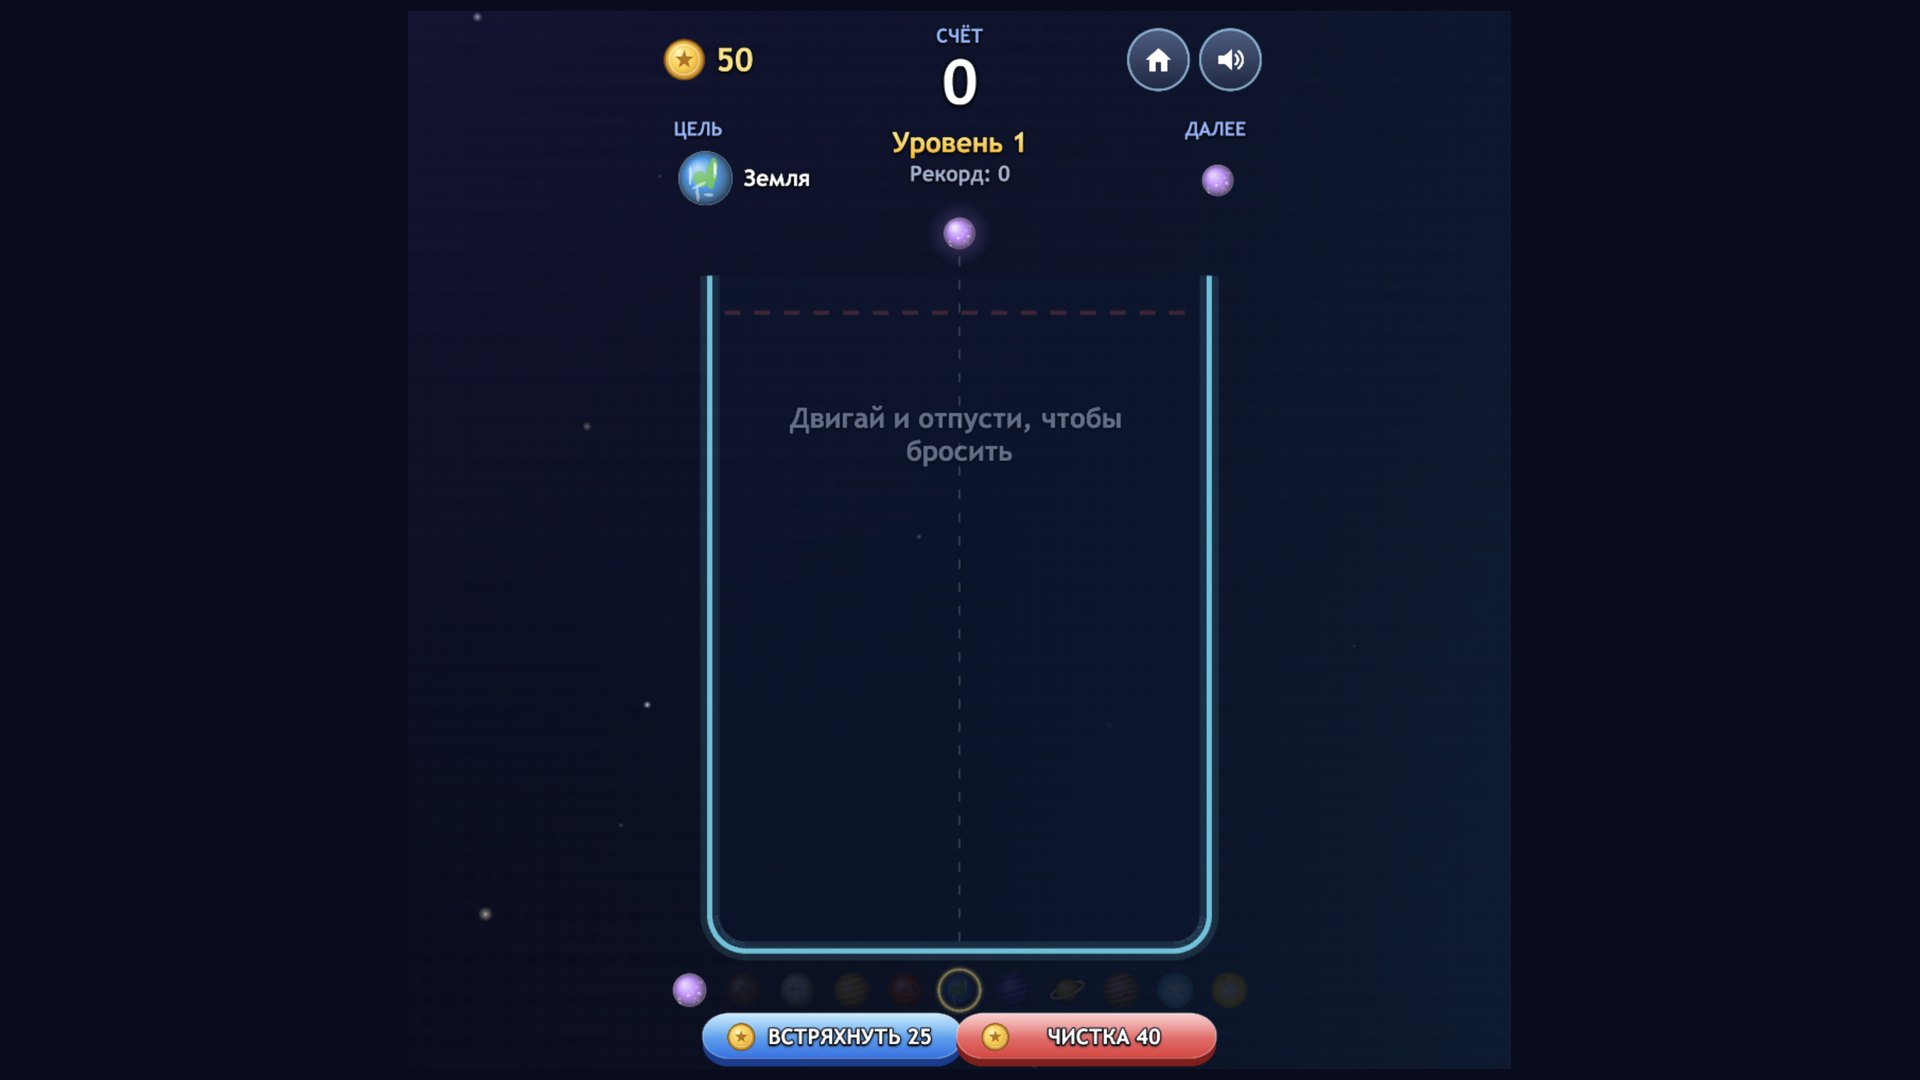
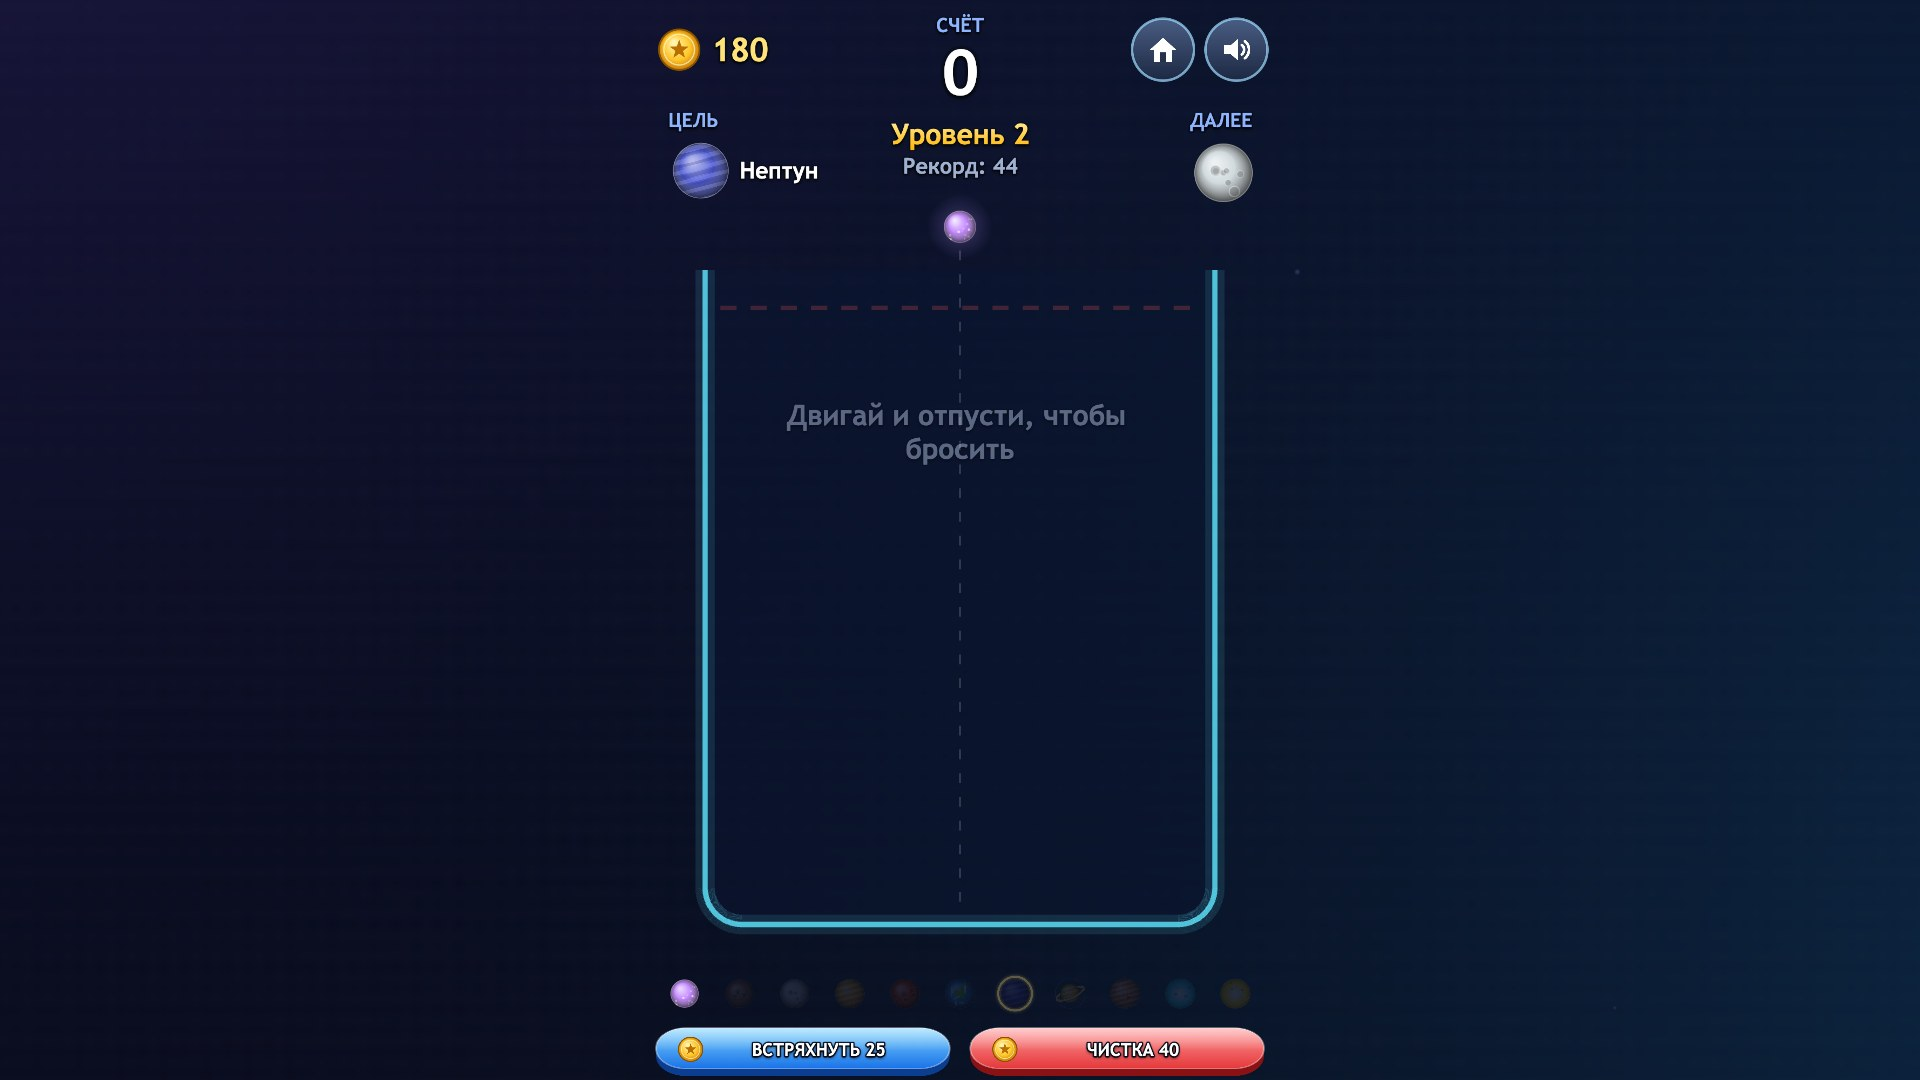
VK Play: развести HUD и обновить 16:9 скрины.
Кнопки встряхивания и чистки больше не наезжают друг на друга, банка не пересекается с цепочкой эволюции.

diff --git a/src/scenes/PlayScene.js b/src/scenes/PlayScene.js
@@ -1,10 +1,10 @@
-import { CONFIG, DESIGN, TIERS, t, tierName, targetTierForLevel } from '../config.js';
-import { YandexSDK } from '../yandexSDK.js';
-import { Sfx } from '../audio.js';
+import { CONFIG, DESIGN, TIERS, t, tierName, targetTierForLevel } from '../config.js?v=20261122e';
+import { YandexSDK } from '../yandexSDK.js?v=20261122e';
+import { Sfx } from '../audio.js?v=20261122e';
 import {
   fitCamera, addBackground, makeText, gradientText, makeButton, makeRoundButton,
   burst, shock, floatText, toast
-} from '../ui.js';
+} from '../ui.js?v=20261122e';
 
 const J = CONFIG.jar;
 const B = CONFIG.balance;
@@ -139,23 +139,25 @@ export class PlayScene extends Phaser.Scene {
     makeText(this, W - 28, 112, t('next'), 18, '#8fb4ff', { ox: 1 }).setDepth(10);
     this.nextImg = this.add.image(W - 56, 160, 'p0').setDepth(10);
 
-    // цепочка эволюции
+    // цепочка между дном банки и кнопками — без наезда на пол и на «Встряхнуть»/«Чистка»
     this.chain = [];
     for (let i = 0; i < TIERS.length; i++) {
-      const img = this.add.image(45 + i * 51, 925, 'p' + i).setDisplaySize(34, 34).setDepth(10);
+      const img = this.add.image(45 + i * 51, 920, 'p' + i).setDisplaySize(28, 28).setDepth(10);
       img.setTint(0x3a3f55).setAlpha(0.55);
       this.chain.push(img);
     }
     this.markReached(0, true);
-    const tr = this.add.image(45 + this.target * 51, 925, 'ring').setTint(0xffd54f)
-      .setBlendMode(Phaser.BlendModes.ADD).setDisplaySize(50, 50).setDepth(11);
+    const tr = this.add.image(45 + this.target * 51, 920, 'ring').setTint(0xffd54f)
+      .setBlendMode(Phaser.BlendModes.ADD).setDisplaySize(40, 40).setDepth(11);
     this.tweens.add({ targets: tr, alpha: 0.25, duration: 650, yoyo: true, repeat: -1 });
 
-    // бустер
-    this.shakeBtn = makeButton(this, 180, 972, `${t('shake')} ${B.shakeCost}`, 'blue', () => this.useShake(),
-      { w: 250, h: 54, size: 20, icon: 'coin' }).setDepth(10);
-    this.purgeBtn = makeButton(this, 420, 972, `${t('purge')} ${B.purgeCost}`, 'red', () => this.usePurge(),
-      { w: 250, h: 54, size: 20, icon: 'coin' }).setDepth(10);
+    // две колонки с зазором: иначе длинные RU/TR подписи с иконкой монеты наползают друг на друга
+    const side = 16, gap = 14;
+    const bw = (W - side * 2 - gap) / 2;
+    this.shakeBtn = makeButton(this, side + bw / 2, 974, `${t('shake')} ${B.shakeCost}`, 'blue', () => this.useShake(),
+      { w: bw, h: 48, size: 16, icon: 'coin' }).setDepth(10);
+    this.purgeBtn = makeButton(this, W - side - bw / 2, 974, `${t('purge')} ${B.purgeCost}`, 'red', () => this.usePurge(),
+      { w: bw, h: 48, size: 16, icon: 'coin' }).setDepth(10);
   }
 
   // ------------------------------------------------------------------ вспомогательное
@@ -463,12 +465,12 @@ export class PlayScene extends Phaser.Scene {
   showRevive() {
     const W = DESIGN.W;
     const c = this.buildPanel(520, 560, 500);
-    const title = makeText(this, W / 2, 285, t('reviveTitle'), 38, '#ff6b6b', { sw: 7, wrap: 460 });
-    const icon = this.add.image(W / 2, 395, 'p' + Math.max(this.roundMax, 1)).setDisplaySize(110, 110);
+    const title = makeText(this, W / 2, 278, t('reviveTitle'), 32, '#ff6b6b', { sw: 7, wrap: 440 });
+    const icon = this.add.image(W / 2, 385, 'p' + Math.max(this.roundMax, 1)).setDisplaySize(100, 100);
     this.tweens.add({ targets: icon, angle: 360, duration: 9000, repeat: -1 });
-    const txt = makeText(this, W / 2, 490, t('reviveText', { n: B.reviveCost }), 24, '#cfe0ff', { wrap: 430 });
-    const yes = makeButton(this, W / 2, 590, t('revive'), 'green', () => this.onRevive(), { w: 380, h: 92, size: 38, icon: 'coin', pulse: true });
-    const no = makeButton(this, W / 2, 690, t('noThanks'), 'dark', () => { this.closePanel(); this.showResults(false); }, { w: 260, h: 60, size: 24 });
+    const txt = makeText(this, W / 2, 478, t('reviveText', { n: B.reviveCost }), 22, '#cfe0ff', { wrap: 420 });
+    const yes = makeButton(this, W / 2, 585, t('revive'), 'green', () => this.onRevive(), { w: 400, h: 84, size: 28, icon: 'coin', pulse: true });
+    const no = makeButton(this, W / 2, 678, t('noThanks'), 'dark', () => { this.closePanel(); this.showResults(false); }, { w: 280, h: 58, size: 22 });
     c.add([title, icon, txt, yes, no]);
   }
 
@@ -530,11 +532,11 @@ export class PlayScene extends Phaser.Scene {
     this.earnedTx = makeText(this, W / 2 - 46, 590, '+0', 42, '#ffe27a', { ox: 0 });
     this.countEarned(0, this.earned);
 
-    this.doubleBtn = makeButton(this, W / 2, 665, t('double', { n: B.doubleCost }), 'gold', () => this.onDouble(), { w: 380, h: 80, size: 34, icon: 'coin' });
+    this.doubleBtn = makeButton(this, W / 2, 660, t('double', { n: B.doubleCost }), 'gold', () => this.onDouble(), { w: 380, h: 74, size: 28, icon: 'coin' });
     if (this.earned <= 0 || d.coins < B.doubleCost) this.doubleBtn.setEnabled(false);
-    const primary = makeButton(this, W / 2, 760, win ? t('nextLevel') : t('retry'), 'green',
-      () => this.leave(() => this.scene.restart({ level: win ? d.level : this.level })), { w: 420, h: 88, size: win ? 30 : 40, pulse: true });
-    const menu = makeButton(this, W / 2, 840, t('menu'), 'dark', () => this.leave(() => this.scene.start('MenuScene')), { w: 240, h: 56, size: 24 });
+    const primary = makeButton(this, W / 2, 748, win ? t('nextLevel') : t('retry'), 'green',
+      () => this.leave(() => this.scene.restart({ level: win ? d.level : this.level })), { w: 420, h: 82, size: 28, pulse: true });
+    const menu = makeButton(this, W / 2, 828, t('menu'), 'dark', () => this.leave(() => this.scene.start('MenuScene')), { w: 240, h: 54, size: 22 });
     c.add([title, icon, nm, lbl, scoreTx, rec, coin, this.earnedTx, this.doubleBtn, primary, menu]);
     if (win) Sfx.play(this, 'coin');
   }

diff --git a/src/scenes/MenuScene.js b/src/scenes/MenuScene.js
@@ -1,7 +1,7 @@
-import { CONFIG, DESIGN, t, nextLang, langFlag } from '../config.js';
-import { YandexSDK } from '../yandexSDK.js';
-import { Sfx } from '../audio.js';
-import { fitCamera, addBackground, makeText, gradientText, makeButton, makeRoundButton, floatText, toast } from '../ui.js';
+import { CONFIG, DESIGN, t, nextLang, langFlag } from '../config.js?v=20261122e';
+import { YandexSDK } from '../yandexSDK.js?v=20261122e';
+import { Sfx } from '../audio.js?v=20261122e';
+import { fitCamera, addBackground, makeText, gradientText, makeButton, makeRoundButton, floatText, toast } from '../ui.js?v=20261122e';
 
 export class MenuScene extends Phaser.Scene {
   constructor() { super('MenuScene'); }
@@ -44,14 +44,14 @@ export class MenuScene extends Phaser.Scene {
     makeText(this, W / 2, 640, `${t('level')} ${d.level}   •   ${t('best')}: ${d.best}`, 26, '#cfe0ff');
 
     // --- кнопки ---
-    this.playBtn = makeButton(this, W / 2, 735, t('play'), 'green', () => this.startGame(), { w: 400, h: 112, size: 52, pulse: true });
-    this.freeBtn = makeButton(this, W / 2, 855, t('freeCoins', { n: CONFIG.balance.freeCoinsReward }), 'gold',
-      () => this.claimFreeCoins(), { w: 400, h: 84, size: 32, icon: 'coin' });
+    this.playBtn = makeButton(this, W / 2, 728, t('play'), 'green', () => this.startGame(), { w: 400, h: 104, size: 48, pulse: true });
+    this.freeBtn = makeButton(this, W / 2, 840, t('freeCoins', { n: CONFIG.balance.freeCoinsReward }), 'gold',
+      () => this.claimFreeCoins(), { w: 400, h: 78, size: 30, icon: 'coin' });
 
-    this.shopBtn = makeButton(this, W / 2, 940, t('shop'), 'blue', () => this.openShop(), { w: 300, h: 70, size: 28, icon: 'coin' });
+    this.shopBtn = makeButton(this, W / 2, 932, t('shop'), 'blue', () => this.openShop(), { w: 280, h: 66, size: 26, icon: 'coin' });
 
-    this.langBtn = makeButton(this, 70, 945, langFlag(), 'dark', () => this.cycleLang(), { w: 88, h: 56, size: 22 });
-    this.soundBtn = makeRoundButton(this, W - 55, 945, d.sound ? 'ic_snd_on' : 'ic_snd_off', () => {
+    this.langBtn = makeButton(this, 70, 938, langFlag(), 'dark', () => this.cycleLang(), { w: 88, h: 56, size: 22 });
+    this.soundBtn = makeRoundButton(this, W - 55, 938, d.sound ? 'ic_snd_on' : 'ic_snd_off', () => {
       YandexSDK.setSound(!YandexSDK.data.sound);
       this.soundBtn.setIcon(YandexSDK.data.sound ? 'ic_snd_on' : 'ic_snd_off');
     });

diff --git a/src/scenes/ShopScene.js b/src/scenes/ShopScene.js
@@ -1,7 +1,7 @@
-import { CONFIG, DESIGN, t } from '../config.js';
-import { YandexSDK } from '../yandexSDK.js';
-import { Sfx } from '../audio.js';
-import { fitCamera, makeText, gradientText, makeButton, toast, floatText } from '../ui.js';
+import { CONFIG, DESIGN, t } from '../config.js?v=20261122e';
+import { YandexSDK } from '../yandexSDK.js?v=20261122e';
+import { Sfx } from '../audio.js?v=20261122e';
+import { fitCamera, makeText, gradientText, makeButton, toast, floatText } from '../ui.js?v=20261122e';
 
 // Магазин внутриигровых покупок. Открывается поверх меню (scene.launch), меню на паузе.
 export class ShopScene extends Phaser.Scene {
@@ -18,15 +18,15 @@ export class ShopScene extends Phaser.Scene {
     const dim = this.add.rectangle(W / 2, 500, 5000, 5000, 0x03060c, 0.78).setInteractive();
     this.add.image(W / 2, 505, 'panel').setDisplaySize(540, 780);
 
-    const title = makeText(this, W / 2, 175, t('shop'), 54, '#ffffff', { sw: 9 });
+    const title = makeText(this, W / 2, 168, t('shop'), 50, '#ffffff', { sw: 9 });
     gradientText(title, '#fff6a8', '#ff9a1f');
 
-    this.coinIcon = this.add.image(W / 2 - 60, 232, 'coin').setDisplaySize(36, 36);
-    this.coinText = makeText(this, W / 2 - 34, 232, String(YandexSDK.data.coins), 30, '#ffe27a', { ox: 0 });
+    this.coinIcon = this.add.image(W / 2 - 60, 224, 'coin').setDisplaySize(36, 36);
+    this.coinText = makeText(this, W / 2 - 34, 224, String(YandexSDK.data.coins), 30, '#ffe27a', { ox: 0 });
 
     this.info = makeText(this, W / 2, 500, t('shopLoading'), 28, '#9fb4d9', { wrap: 440 });
 
-    this.closeBtn = makeButton(this, W / 2, 855, t('close'), 'dark', () => this.close(), { w: 300, h: 70, size: 28 });
+    this.closeBtn = makeButton(this, W / 2, 848, t('close'), 'dark', () => this.close(), { w: 300, h: 66, size: 26 });
 
     this.loadCatalog();
   }

diff --git a/src/scenes/BootScene.js b/src/scenes/BootScene.js
@@ -1,7 +1,7 @@
-import { DESIGN, t } from '../config.js';
-import { YandexSDK } from '../yandexSDK.js';
-import { Sfx } from '../audio.js';
-import { fitCamera, makeText, buildTextureJobs, gradientText } from '../ui.js';
+import { DESIGN, t } from '../config.js?v=20261122e';
+import { YandexSDK } from '../yandexSDK.js?v=20261122e';
+import { Sfx } from '../audio.js?v=20261122e';
+import { fitCamera, makeText, buildTextureJobs, gradientText } from '../ui.js?v=20261122e';
 
 const nextFrame = () => new Promise((r) => setTimeout(r, 0));
 
@@ -22,7 +22,8 @@ export class BootScene extends Phaser.Scene {
     this.logo = this.add.graphics();
     this.bar = this.add.graphics();
 
-    this.title = makeText(this, W / 2, 230, 'COSMIC MERGE', 54, '#ffffff', { sw: 8 });
+    makeText(this, W / 2, 200, t('title1'), 36, '#ffffff', { sw: 7 });
+    this.title = makeText(this, W / 2, 250, t('title2'), 56, '#ffffff', { sw: 9 });
     gradientText(this.title, '#fff6a8', '#ff9a3c');
     this.status = makeText(this, W / 2, 640, t('loading') + '…', 26, '#9fb4d9');
     this.percent = makeText(this, W / 2, 595, '0%', 30, '#ffffff');

diff --git a/src/main.js b/src/main.js
@@ -1,8 +1,8 @@
-import { createGameConfig } from './config.js?v=20261122';
-import { BootScene } from './scenes/BootScene.js?v=20261122';
-import { MenuScene } from './scenes/MenuScene.js?v=20261122';
-import { PlayScene } from './scenes/PlayScene.js?v=20261122';
-import { ShopScene } from './scenes/ShopScene.js?v=20261122';
+import { createGameConfig } from './config.js?v=20261122e';
+import { BootScene } from './scenes/BootScene.js?v=20261122e';
+import { MenuScene } from './scenes/MenuScene.js?v=20261122e';
+import { PlayScene } from './scenes/PlayScene.js?v=20261122e';
+import { ShopScene } from './scenes/ShopScene.js?v=20261122e';
 
 const game = new Phaser.Game(createGameConfig([BootScene, MenuScene, PlayScene, ShopScene]));
 if (location.search.includes('debug')) window.__game = game;

diff --git a/src/yandexSDK.js b/src/yandexSDK.js
@@ -1,11 +1,11 @@
 // Платформенный слой VK Play: сохранения, покупки, без рекламы.
 // Имя файла оставлено как в яндекс-версии, чтобы сцены импортировали тот же путь.
 
-import { CONFIG, LANGS, setLang } from './config.js';
+import { CONFIG, LANGS, setLang } from './config.js?v=20261122e';
 import {
   currencyOf, ensureUser, handshake, inIframe, isVkPlay, loadCloudSave, looksLikeVkPlay,
   pay, userUid, waitForIframeApi, waitForUid, writeCloudSave, VKPLAY_PRICES, VKPLAY_SAVE_URL
-} from './vkplay.js?v=20261122';
+} from './vkplay.js?v=20261122e';
 
 export const defaultData = () => ({
   v: 1,

diff --git a/src/vkplay.js b/src/vkplay.js
@@ -54,7 +54,7 @@ export async function loadIframeApiScript() {
   if (typeof window.iframeApi === 'function') return true;
   return new Promise((resolve) => {
     const s = document.createElement('script');
-    s.src = new URL('./lib/iframe-api.js', import.meta.url).href.split('?')[0] + '?v=20261122';
+    s.src = new URL('./lib/iframe-api.js', import.meta.url).href.split('?')[0] + '?v=20261122e';
     s.onload = () => resolve(typeof window.iframeApi === 'function');
     s.onerror = () => resolve(false);
     document.head.appendChild(s);

diff --git a/src/ui.js b/src/ui.js
@@ -1,7 +1,7 @@
 // Общие UI-хелперы: процедурные текстуры, текст, кнопки, фон, частицы, адаптивная камера.
 
-import { DESIGN, TIERS } from './config.js';
-import { Sfx } from './audio.js';
+import { DESIGN, TIERS } from './config.js?v=20261122e';
+import { Sfx } from './audio.js?v=20261122e';
 
 export const FONT = '"Trebuchet MS", "Segoe UI", Arial, sans-serif';
 

diff --git a/index.html b/index.html
@@ -17,6 +17,6 @@
   <div id="game-container"></div>
   <!-- VK Play / GitHub Pages: без Yandex SDK, без рекламы, оплата через iframeApi. -->
   <script src="https://cdn.jsdelivr.net/npm/phaser@3.80.1/dist/phaser.min.js"></script>
-  <script type="module" src="src/main.js?v=20261122"></script>
+  <script type="module" src="src/main.js?v=20261122e"></script>
 </body>
 </html>

diff --git a/src/config.js b/src/config.js
@@ -8,7 +8,7 @@ export const CONFIG = {
   storageKey: 'cosmic_merge_vk_save_v1',
   saveDebounceMs: 1500,
 
-  jar: { left: 70, right: 530, floor: 880, top: 250, dangerY: 285, dropY: 210, wall: 90 },
+  jar: { left: 70, right: 530, floor: 848, top: 250, dangerY: 285, dropY: 210, wall: 90 },
 
   physics: {
     gravityY: 1.2,
